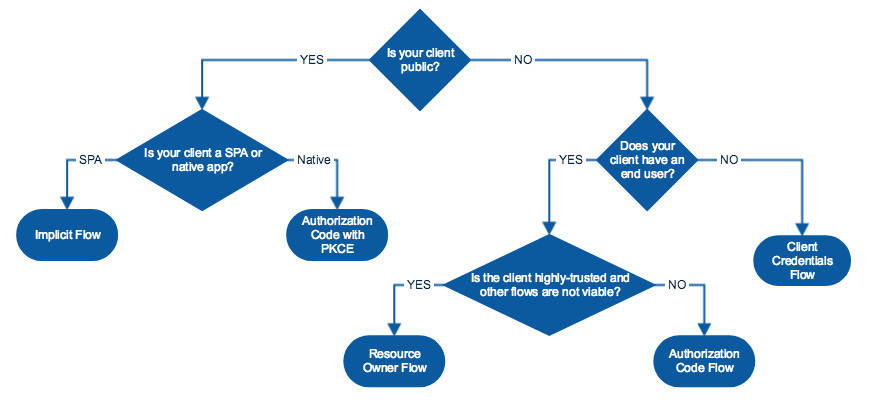
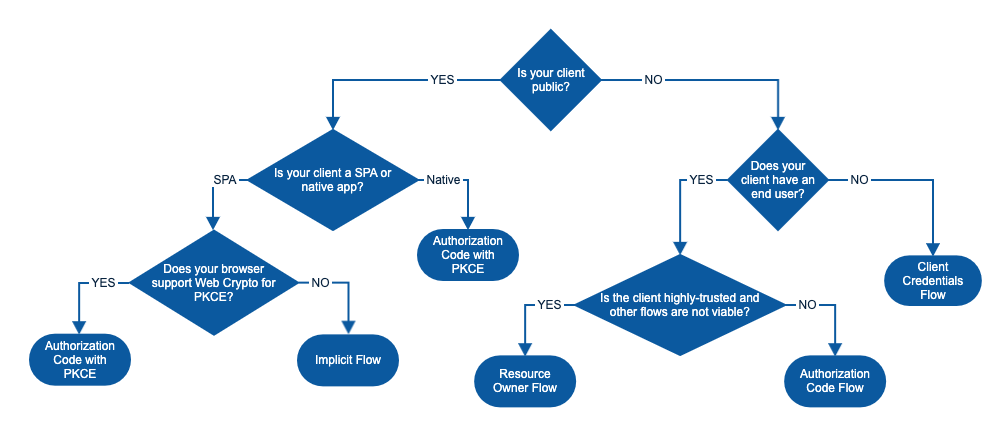
implicit updates

Changed region(s): [[0.0, 0.0296, 0.9863, 0.9754], [0.0308, 0.7389, 0.1541, 0.9163]]

diff --git a/packages/@okta/vuepress-site/docs/concepts/auth-overview/index.md b/packages/@okta/vuepress-site/docs/concepts/auth-overview/index.md
@@ -99,7 +99,7 @@ The table below shows you which OAuth 2.0 flow to use for the type of applicatio
 | Type of Application     | OAuth 2.0 Flow                                      |
 | ----------------------- | --------------------------------------------------- |
 | Server-side (AKA Web)   | [Authorization Code Flow](/docs/guides/implement-auth-code/)                |
-| Single-Page Application | [Authorization Code Flow with PKCE](/docs/guides/implement-auth-code-pkce/) or [Implicit Flow](/docs/guides/implement-implicit/) |
+| Single-Page Application | [Authorization Code Flow with PKCE](/docs/guides/implement-auth-code-pkce/) or [Implicit Flow](/docs/guides/implement-implicit/) when the SPA that you are building runs in older browsers that don't support Web Crypto for PKCE. |
 | Native                  | [Authorization Code Flow with PKCE](/docs/guides/implement-auth-code-pkce/) |
 | Trusted                 | [Resource Owner Password Flow](/docs/guides/implement-password/)            |
 | Service                 | [Client Credentials](/docs/guides/implement-client-creds/)                  |
@@ -118,7 +118,7 @@ Any OAuth flow can give you an access token, but not all support ID tokens.
 
 ### What kind of client are you building?
 
-Depending on what kind of client you are building, you will want to use a different OAuth 2.0 flow. The flowchart below can quickly help you decide which flow to use. Further explanation about each is included below.
+The type of OAuth 2.0 flow depends on what kind of client that you are building. The flowchart below can quickly help you decide which flow to use. Further explanation about each is included below.
 
 ![OAuth Flow Diagram width:](/img/oauth_grant_flowchart.png "OAuth Flow Diagram width:")
 
@@ -128,7 +128,7 @@ A client application is considered "public" when an end user could possibly view
 
 ###### Is your client a SPA or native?
 
-If your client application is a Single Page Application (SPA), you should use the [Implicit flow](#implicit-flow).
+If your client application is a Single-Page Application (SPA) running in a modern browser that supports Web Crypto for PKCE, you should use the [Authorization code with PKCE flow](#authorization-code-with-pkce-flow). If your client application is a SPA that runs in older browsers that don't support Web Crypto for PKCE, then you should use the [Implicit flow](#implicit-flow).
 
 If your client application is a native application, you should use the [Authorization code with PKCE flow](#authorization-code-with-pkce-flow).
 
@@ -212,9 +212,11 @@ For information on how to set up your application to use this flow, see [Impleme
 
 ### Implicit Flow
 
-The Implicit Flow is intended for applications where the confidentiality of the client secret cannot be guaranteed. In this flow, the client does not make a request to the `/token` endpoint, but instead receives the access token directly from the `/authorize` endpoint. For Single Page Applications (SPA) running in modern browsers we recommend using the [Authorization Code Flow with PKCE](#authorization-code-with-pkce-flow) instead for maximum security. If support for older browsers is required, the Implicit flow will provide a working solution. The client must be capable of interacting with the resource owner's user-agent and capable of receiving incoming requests (via redirection) from the authorization server.
+The Implicit flow is intended for applications where the confidentiality of the client secret can't be guaranteed. In this flow, the client doesn't make a request to the `/token` endpoint, but instead receives the access token directly from the `/authorize` endpoint. The client must be capable of interacting with the resource owner's user agent and capable of receiving incoming requests (through redirection) from the authorization server.
 
-> **Note:** Because it is intended for less-trusted clients, the Implicit Flow does not support refresh tokens.
+> **Note:** Because it is intended for less-trusted clients, the Implicit flow doesn't support refresh tokens.
+
+> **Important:** For Single-Page Applications (SPA) running in modern browsers that support Web Crypto for PKCE, we recommend using the [Authorization Code Flow with PKCE](#authorization-code-with-pkce-flow) instead of the Implicit flow for maximum security. If support for older browsers is required, the Implicit flow provides a working solution.
 
 ![Implicit Flow width:](/img/oauth_implicit_flow.png "Implicit Flow width:")
 
@@ -293,11 +295,11 @@ At its core, an authorization server is simply an engine for minting OpenID Conn
 
 Okta provides two types of authorization servers:
 
-**Okta Authorization Server**
+### Okta Authorization Server
 
 Use the Okta Authorization Server to perform Single Sign-On with Okta or get an access token for Okta. The Okta Authorization Server can't be customized. Access tokens issued by the Okta Authorization Server can only be consumed and validated by Okta. The token audience is Okta-specific, so the token can't be used or validated by your own applications.
 
-**Custom Authorization Server**
+### Custom Authorization Server
 
 Use a Custom Authorization Server to secure your APIs. Custom Authorization Servers are hosted on Okta, and created and configured by an org administrator. An access token minted by a Custom Authorization Server is consumed by your APIs. Custom scopes can be configured to support authorization for your APIs.
 
@@ -307,5 +309,3 @@ Okta provides a pre-configured Custom Authorization with the name `default`. It 
 `https://${yourOktaDomain}/api/v1/authorizationServers/default`
 
 For Custom Authorization Servers that you create yourself, `${authServerId}` will be a random ID like `aus9o8wzkhckw9TLa0h7z`.
-
-

diff --git a/packages/@okta/vuepress-site/docs/guides/implement-implicit/overview/index.md b/packages/@okta/vuepress-site/docs/guides/implement-implicit/overview/index.md
@@ -2,15 +2,17 @@
 title: Overview
 ---
 
-If you are building a Single-Page Application (SPA), then the implicit flow is the recommended method for controlling access between your SPA and a resource server.
+If you are building a Single-Page Application (SPA) that runs in older browsers that don't support Web Crypto for PKCE, then the Implicit flow is the recommended method for controlling access between your SPA and a resource server. The Implicit flow is intended for applications where the confidentiality of the client secret can't be guaranteed. In this flow, the client doesn't make a request to the `/token` endpoint, but instead receives the access token directly from the `/authorize` endpoint.  The client must be capable of interacting with the resource owner's user agent and capable of receiving incoming requests (through redirection) from the authorization server.
 
-At a high-level, this flow has the following steps:
+> **Note:** For SPAs running in modern browsers that support Web Crypto for PKCE, we recommend using the [Authorization Code Flow with PKCE](/docs/guides/implement-auth-code-pkce/) instead for maximum security.
 
-- Your application directs the browser to the Okta sign-in page, where the user authenticates.
+At a high level, the Implicit flow has the following steps:
+
+- Your application directs the browser to the Okta Sign-In Page, where the user authenticates.
 - Okta redirects the browser back to the specified redirect URI, along with access and ID tokens as a hash fragment in the URI.
 - Your application extracts the tokens from the URI.
 - Your application can now use these tokens to call the resource server (for example an API) on behalf of the user.
 
-For more information on the implicit flow, including why to use it, see [our OAuth 2.0 overview](/docs/concepts/auth-overview/#implicit-flow).
+For more information on the Implicit flow, see [our OAuth 2.0 overview](/docs/concepts/auth-overview/#implicit-flow).
 
 <NextSectionLink/>
